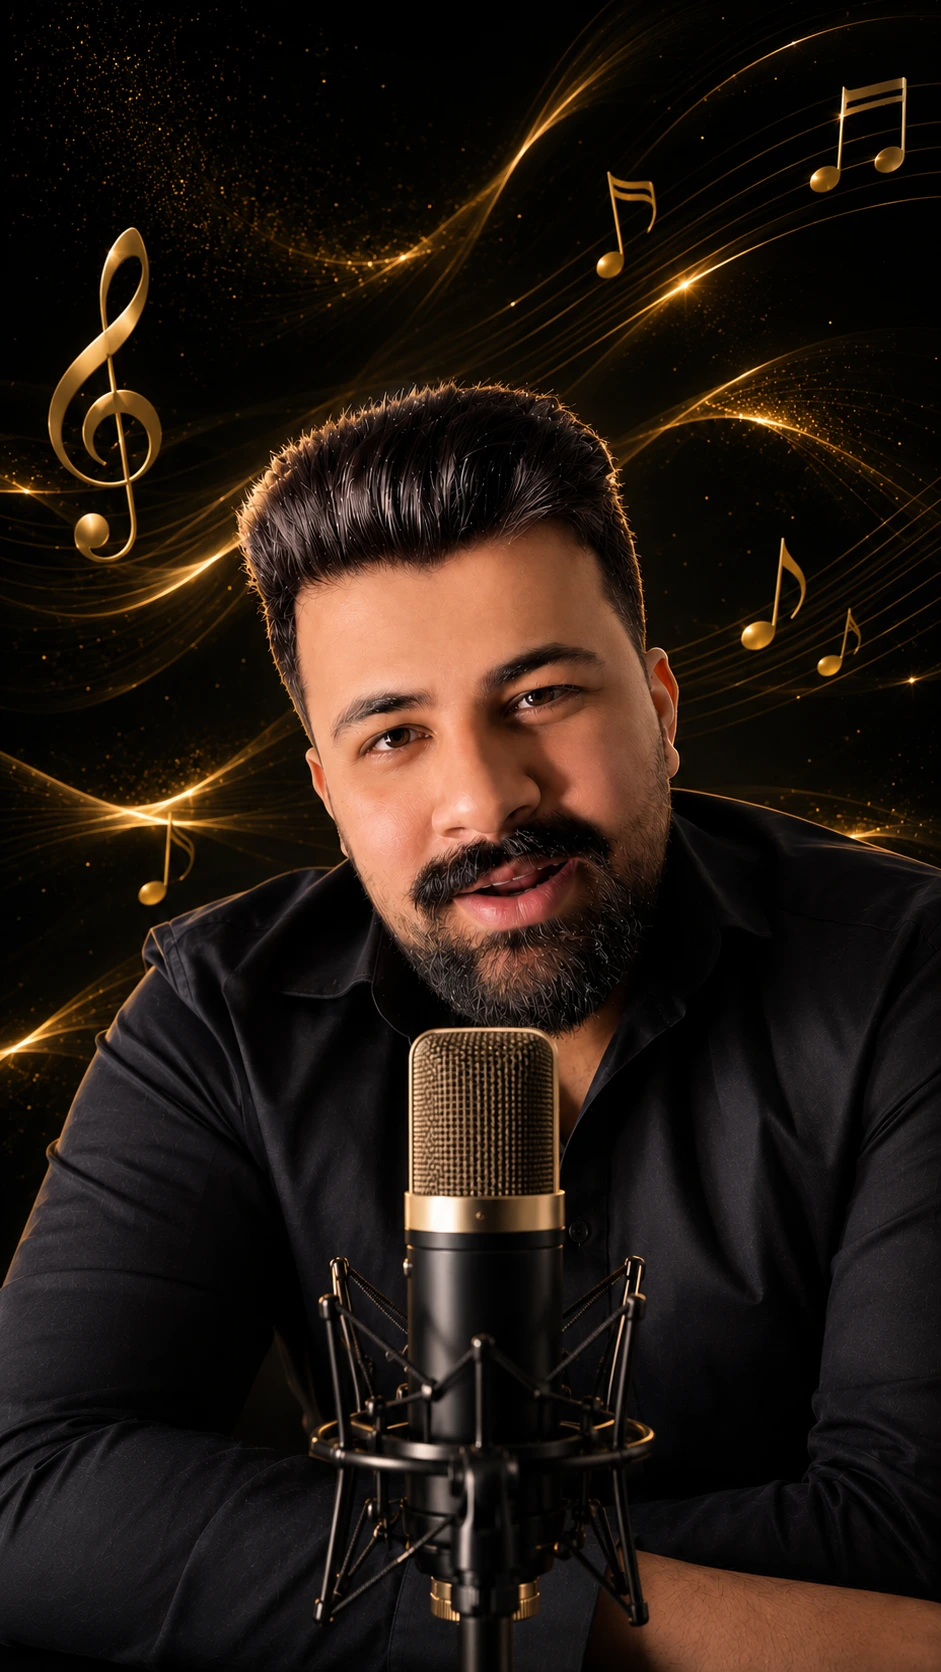
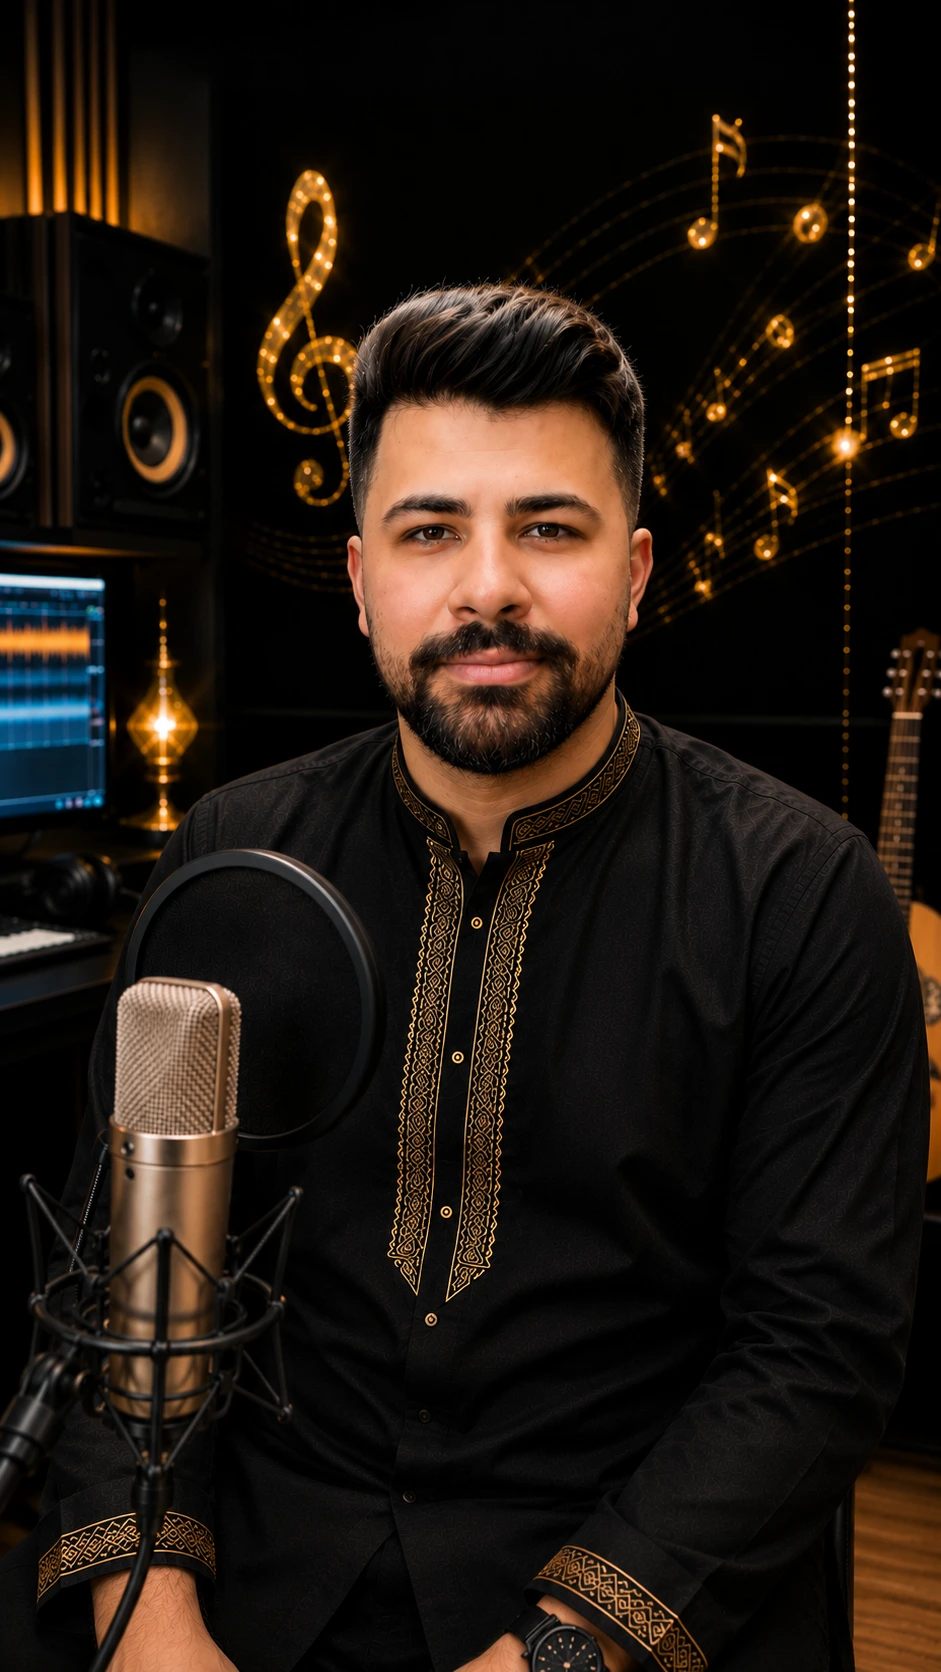
feat(publish-201): Repair CSS

diff --git a/src/styles/pagehero.css b/src/styles/pagehero.css
@@ -35,29 +35,20 @@
 }
 
 .page-hero-content{
-
     position:relative;
-
     z-index:2;
-
     max-width:760px;
-
-    margin:auto;
-
+    margin:0 auto;
+    padding:0;
     text-align:center;
-
 }
 
 .page-hero h1{
-
-    margin:18px 0;
-
+    margin:0 !important;
+    padding:0 !important;
     font-size:56px;
-
     font-weight:800;
-
-    line-height:1.2;
-
+    line-height:1.15;
 }
 
 .page-hero p{

diff --git a/src/styles/courses.css b/src/styles/courses.css
@@ -268,3 +268,11 @@ h3.course-title{
     padding:0 !important;
     margin-block:0 !important;
 }
+.section-title{
+    margin-top: 1px !important;
+    margin-bottom: 1px !important;
+}
+.section-title h2{
+    margin-top:0px !important;
+    margin-bottom:1px;
+}

diff --git a/src/styles/instructors.css b/src/styles/instructors.css
@@ -386,3 +386,6 @@
     transform:translateY(-2px);
 
 }
+.section-title{
+    margin:0 0 8px;
+}